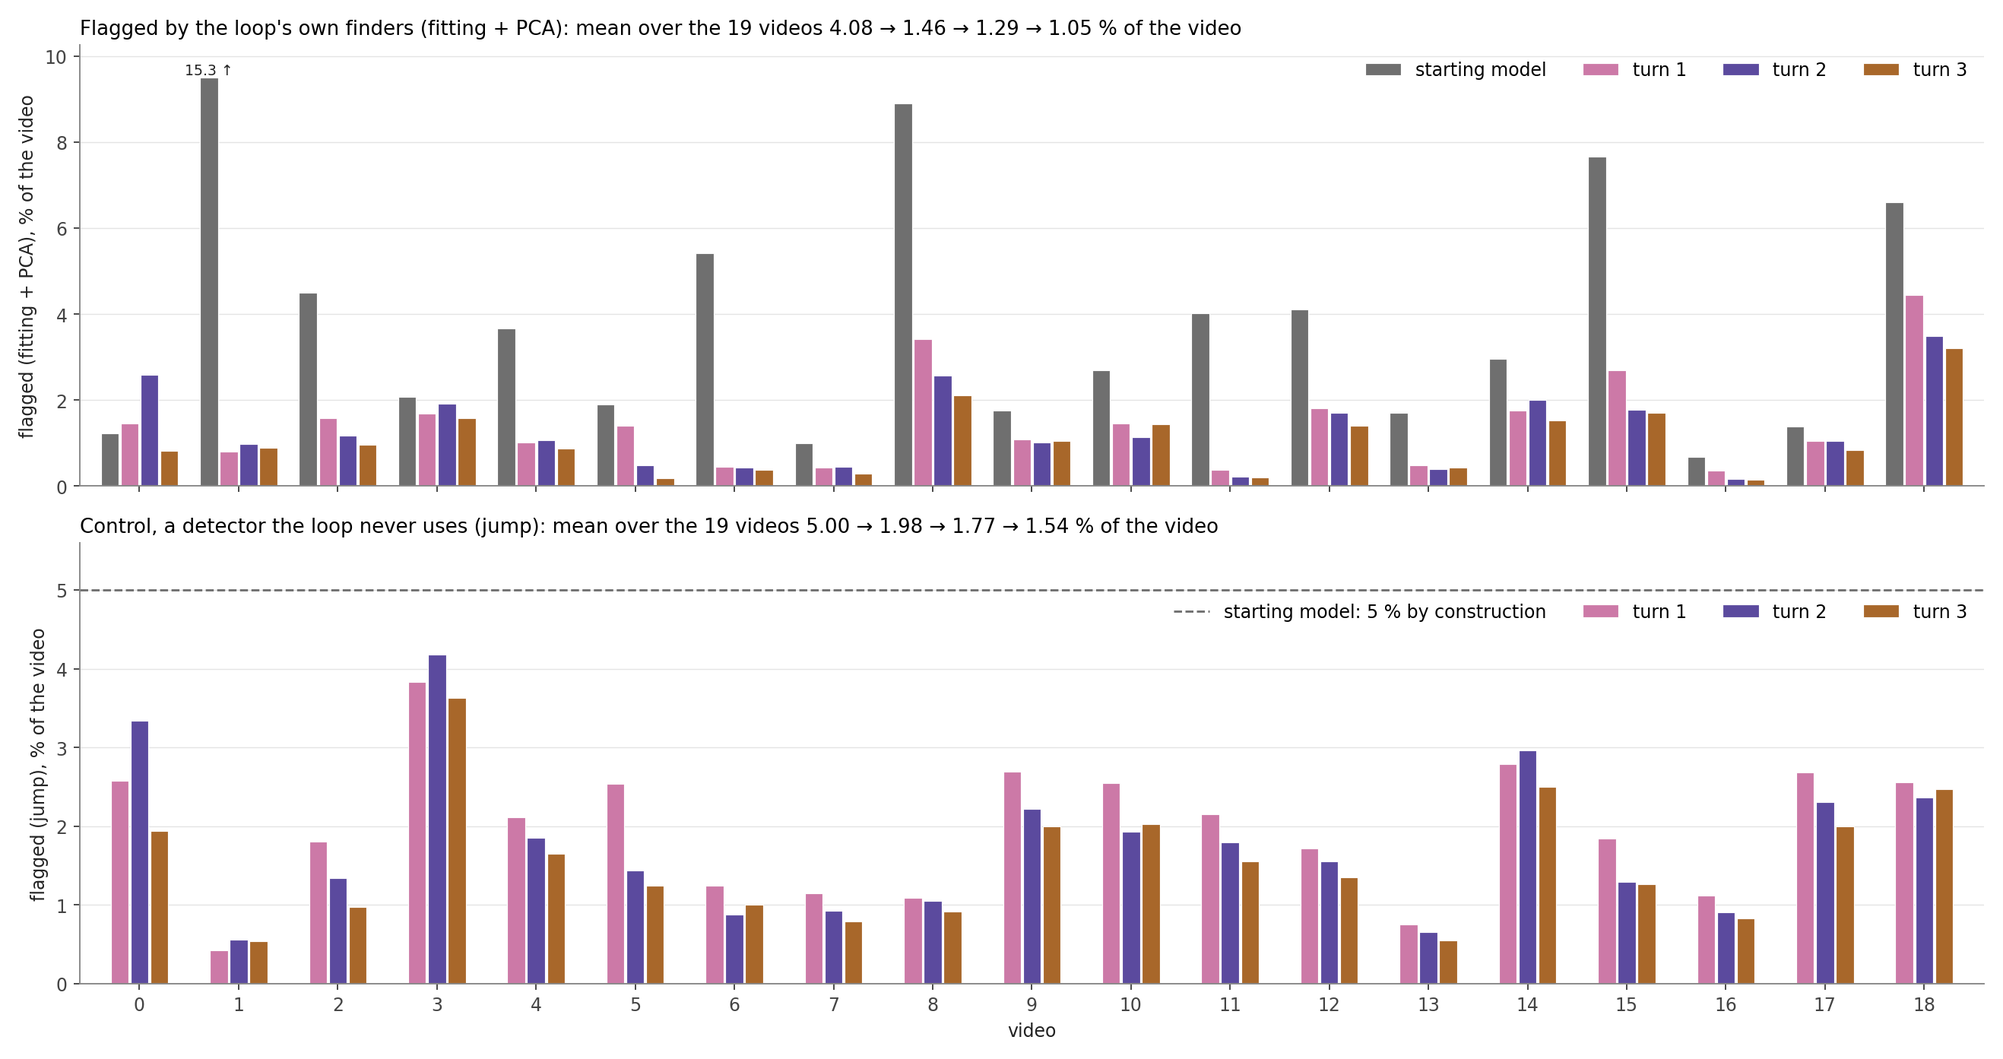
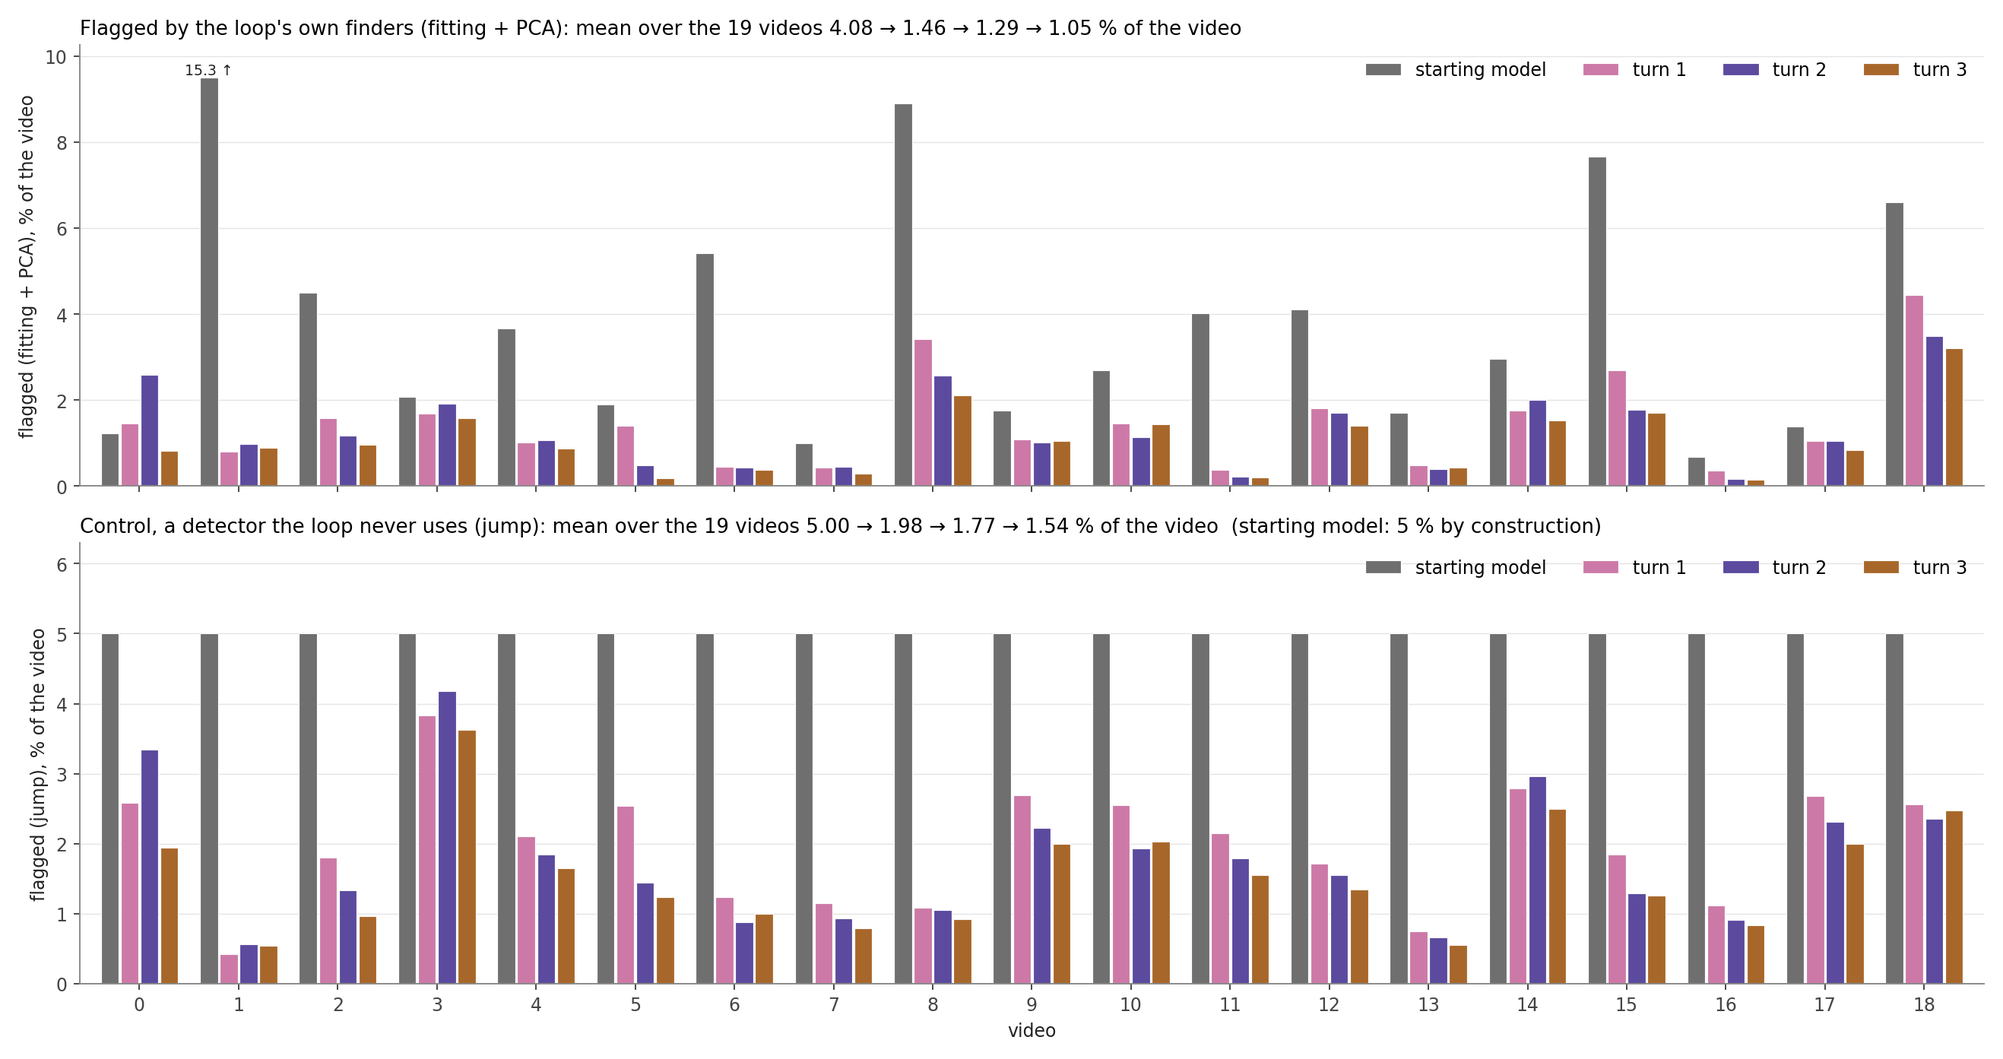
Figure 9-30: the starting model drawn as grey bars in the jump panel too (5 % by construction)

Changed region(s): [[0.0311, 0.4939, 0.9958, 0.9261], [0.6224, 0.4939, 0.6846, 0.5248]]

diff --git a/report/index.html b/report/index.html
@@ -81,7 +81,7 @@ math[display="block"]{margin:10px 0 6px;text-align:left;overflow-x:auto;max-widt
 
 <header>
   <h1><span lang="zh">小鼠眼睛关键点追踪：做了什么，结果是什么</span><span lang="en">Mouse eye keypoint tracking: what was done and what came out</span></h1>
-  <p class="muted small">Zhiheng Li (University of Minnesota), Kaiwen Sheng (Stanford) · <span lang="zh">页面生成时间</span><span lang="en">page built</span> 2026-11-28 12:45 · <a href="https://github.com/ZhihengLi0/mouse-behavior-tracking">GitHub: ZhihengLi0/mouse-behavior-tracking</a></p>
+  <p class="muted small">Zhiheng Li (University of Minnesota), Kaiwen Sheng (Stanford) · <span lang="zh">页面生成时间</span><span lang="en">page built</span> 2026-11-28 12:47 · <a href="https://github.com/ZhihengLi0/mouse-behavior-tracking">GitHub: ZhihengLi0/mouse-behavior-tracking</a></p>
 
   <div class="text" lang="zh">
     <p><b>任务：</b>用 DeepLabCut 在小鼠眼睛视频的每一帧上找 8 个点：瞳孔上、下、左、右，上眼睑、下眼睑，鼻侧眼角、颞侧眼角。由这 8 个点得到瞳孔大小、眼睛睁开程度和眨眼，之后与脑记录对齐。</p>
@@ -2169,27 +2169,27 @@ math[display="block"]{margin:10px 0 6px;text-align:left;overflow-x:auto;max-widt
     <tr><th><span lang="zh">脚本和结果</span><span lang="en">Scripts and results</span></th><td><code>scripts/final_check_set.py</code>, <code>blind_turn2_set.py</code>, <code>blind_turn2_score.py</code>, <code>final_loop_summary.py</code>, <code>final_loop_figures.py</code>; <code>results/self_training/final_loop_summary.csv</code>, <code>results/blind_test/videoNN/final/</code>, <code>turn3/</code></td></tr>
   </tbody></table></div>
   <figure>
-    <div class="figbox wide"><img src="assets/fig_loop_final_truth_frames.png?v=20261128c" alt="Final loop on all 19 videos: wrong truth frames and median truth error for the starting model and turns 1 to 3"></div>
+    <div class="figbox wide"><img src="assets/fig_loop_final_truth_frames.png?v=20261128d" alt="Final loop on all 19 videos: wrong truth frames and median truth error for the starting model and turns 1 to 3"></div>
     <figcaption lang="zh"><span class="tag">图 9-29：</span>5d，19 个视频的真值帧（每个视频固定的 70 帧）。灰 = 起点模型，粉 = 第一圈，紫 = 第二圈，棕 = 第三圈。上：真值帧里预测错的帧数；下：真值帧的误差中位数。</figcaption>
     <figcaption lang="en"><span class="tag">Figure 9-29:</span>5d, truth frames of the 19 videos (the same 70 frames of every video). Grey = starting model, pink = turn 1, purple = turn 2, brown = turn 3. Top: wrong truth frames; bottom: median error on the truth frames.</figcaption>
   </figure>
   <figure>
-    <div class="figbox wide"><img src="assets/fig_loop_final_flagged.png?v=20261128c" alt="Final loop on all 19 videos: flagged share of the whole video (fitting + PCA) for the starting model and turns 1 to 3"></div>
-    <figcaption lang="zh"><span class="tag">图 9-30：</span>5d，整段标出率，不用人工标注。颜色同图 9-29。上：loop 自己用的两种找帧信号的标出率（fitting + PCA），视频 1 起点模型的柱超出纵轴，数值写在柱上。下：对照，loop 不用的检测的标出率（跳变），虚线是起点模型（按定义 5%）。</figcaption>
-    <figcaption lang="en"><span class="tag">Figure 9-30:</span>5d, flagged share of the whole video, no hand labels involved. Colours as in Figure 9-29. Top: flagged share by the two finders the loop uses (fitting + PCA); the starting-model bar of video 1 exceeds the axis and carries its value. Bottom: the control, flagged share by a detector the loop never uses (jump); the dashed line is the starting model (5% by construction).</figcaption>
+    <div class="figbox wide"><img src="assets/fig_loop_final_flagged.png?v=20261128d" alt="Final loop on all 19 videos: flagged share of the whole video (fitting + PCA) for the starting model and turns 1 to 3"></div>
+    <figcaption lang="zh"><span class="tag">图 9-30：</span>5d，整段标出率，不用人工标注。颜色同图 9-29。上：loop 自己用的两种找帧信号的标出率（fitting + PCA），视频 1 起点模型的柱超出纵轴，数值写在柱上。下：对照，loop 不用的检测的标出率（跳变），起点模型按定义是 5%。</figcaption>
+    <figcaption lang="en"><span class="tag">Figure 9-30:</span>5d, flagged share of the whole video, no hand labels involved. Colours as in Figure 9-29. Top: flagged share by the two finders the loop uses (fitting + PCA); the starting-model bar of video 1 exceeds the axis and carries its value. Bottom: the control, flagged share by a detector the loop never uses (jump); the starting model is 5% by construction.</figcaption>
   </figure>
   <figure>
-    <div class="figbox wide"><img src="assets/fig_loop_final_check_turn1.png?v=20261128c" alt="Final loop, turn 1 against the starting model: wrong frames per video among the frames labeled to check turn 1"></div>
+    <div class="figbox wide"><img src="assets/fig_loop_final_check_turn1.png?v=20261128d" alt="Final loop, turn 1 against the starting model: wrong frames per video among the frames labeled to check turn 1"></div>
     <figcaption lang="zh"><span class="tag">图 9-31：</span>5d，检验第一圈：检验第一圈的帧里预测错的帧数，起点模型和第一圈。视频号下面是比较的帧数，带 * 的是有盲测帧的四个视频。</figcaption>
     <figcaption lang="en"><span class="tag">Figure 9-31:</span>5d, check of turn 1: wrong frames among the frames labeled to check turn 1, starting model and turn 1. Below each video number: frames compared; * marks the four videos with blind frames.</figcaption>
   </figure>
   <figure>
-    <div class="figbox wide"><img src="assets/fig_loop_final_check_turn2.png?v=20261128c" alt="Final loop, turn 2 against turn 1: wrong frames per video among the frames labeled to check turn 2"></div>
+    <div class="figbox wide"><img src="assets/fig_loop_final_check_turn2.png?v=20261128d" alt="Final loop, turn 2 against turn 1: wrong frames per video among the frames labeled to check turn 2"></div>
     <figcaption lang="zh"><span class="tag">图 9-32：</span>5d，检验第二圈：检验第二圈的帧里预测错的帧数，第一圈和第二圈。</figcaption>
     <figcaption lang="en"><span class="tag">Figure 9-32:</span>5d, check of turn 2: wrong frames among the frames labeled to check turn 2, turn 1 and turn 2.</figcaption>
   </figure>
   <figure>
-    <div class="figbox wide"><img src="assets/fig_loop_final_check_turn3.png?v=20261128c" alt="Final loop, turn 3 against turn 2: wrong frames per video among the frames labeled to check turn 3, three videos labeled so far"></div>
+    <div class="figbox wide"><img src="assets/fig_loop_final_check_turn3.png?v=20261128d" alt="Final loop, turn 3 against turn 2: wrong frames per video among the frames labeled to check turn 3, three videos labeled so far"></div>
     <figcaption lang="zh"><span class="tag">图 9-33：</span>5d，检验第三圈：检验第三圈的帧里预测错的帧数，第二圈和第三圈。只有已标的视频 0、1、2 有柱；其余 16 个视频还没标。</figcaption>
     <figcaption lang="en"><span class="tag">Figure 9-33:</span>5d, check of turn 3: wrong frames among the frames labeled to check turn 3, turn 2 and turn 3. Only videos 0, 1 and 2, labeled so far, have bars; the other 16 videos are not labeled yet.</figcaption>
   </figure>

diff --git a/report/template.html b/report/template.html
@@ -2061,27 +2061,27 @@ math[display="block"]{margin:10px 0 6px;text-align:left;overflow-x:auto;max-widt
     <tr><th><span lang="zh">脚本和结果</span><span lang="en">Scripts and results</span></th><td><code>scripts/final_check_set.py</code>, <code>blind_turn2_set.py</code>, <code>blind_turn2_score.py</code>, <code>final_loop_summary.py</code>, <code>final_loop_figures.py</code>; <code>results/self_training/final_loop_summary.csv</code>, <code>results/blind_test/videoNN/final/</code>, <code>turn3/</code></td></tr>
   </tbody></table></div>
   <figure>
-    <div class="figbox wide"><img src="assets/fig_loop_final_truth_frames.png?v=20261128c" alt="Final loop on all 19 videos: wrong truth frames and median truth error for the starting model and turns 1 to 3"></div>
+    <div class="figbox wide"><img src="assets/fig_loop_final_truth_frames.png?v=20261128d" alt="Final loop on all 19 videos: wrong truth frames and median truth error for the starting model and turns 1 to 3"></div>
     <figcaption lang="zh"><span class="tag">图 9-29：</span>5d，19 个视频的真值帧（每个视频固定的 70 帧）。灰 = 起点模型，粉 = 第一圈，紫 = 第二圈，棕 = 第三圈。上：真值帧里预测错的帧数；下：真值帧的误差中位数。</figcaption>
     <figcaption lang="en"><span class="tag">Figure 9-29:</span>5d, truth frames of the 19 videos (the same 70 frames of every video). Grey = starting model, pink = turn 1, purple = turn 2, brown = turn 3. Top: wrong truth frames; bottom: median error on the truth frames.</figcaption>
   </figure>
   <figure>
-    <div class="figbox wide"><img src="assets/fig_loop_final_flagged.png?v=20261128c" alt="Final loop on all 19 videos: flagged share of the whole video (fitting + PCA) for the starting model and turns 1 to 3"></div>
-    <figcaption lang="zh"><span class="tag">图 9-30：</span>5d，整段标出率，不用人工标注。颜色同图 9-29。上：loop 自己用的两种找帧信号的标出率（fitting + PCA），视频 1 起点模型的柱超出纵轴，数值写在柱上。下：对照，loop 不用的检测的标出率（跳变），虚线是起点模型（按定义 5%）。</figcaption>
-    <figcaption lang="en"><span class="tag">Figure 9-30:</span>5d, flagged share of the whole video, no hand labels involved. Colours as in Figure 9-29. Top: flagged share by the two finders the loop uses (fitting + PCA); the starting-model bar of video 1 exceeds the axis and carries its value. Bottom: the control, flagged share by a detector the loop never uses (jump); the dashed line is the starting model (5% by construction).</figcaption>
+    <div class="figbox wide"><img src="assets/fig_loop_final_flagged.png?v=20261128d" alt="Final loop on all 19 videos: flagged share of the whole video (fitting + PCA) for the starting model and turns 1 to 3"></div>
+    <figcaption lang="zh"><span class="tag">图 9-30：</span>5d，整段标出率，不用人工标注。颜色同图 9-29。上：loop 自己用的两种找帧信号的标出率（fitting + PCA），视频 1 起点模型的柱超出纵轴，数值写在柱上。下：对照，loop 不用的检测的标出率（跳变），起点模型按定义是 5%。</figcaption>
+    <figcaption lang="en"><span class="tag">Figure 9-30:</span>5d, flagged share of the whole video, no hand labels involved. Colours as in Figure 9-29. Top: flagged share by the two finders the loop uses (fitting + PCA); the starting-model bar of video 1 exceeds the axis and carries its value. Bottom: the control, flagged share by a detector the loop never uses (jump); the starting model is 5% by construction.</figcaption>
   </figure>
   <figure>
-    <div class="figbox wide"><img src="assets/fig_loop_final_check_turn1.png?v=20261128c" alt="Final loop, turn 1 against the starting model: wrong frames per video among the frames labeled to check turn 1"></div>
+    <div class="figbox wide"><img src="assets/fig_loop_final_check_turn1.png?v=20261128d" alt="Final loop, turn 1 against the starting model: wrong frames per video among the frames labeled to check turn 1"></div>
     <figcaption lang="zh"><span class="tag">图 9-31：</span>5d，检验第一圈：检验第一圈的帧里预测错的帧数，起点模型和第一圈。视频号下面是比较的帧数，带 * 的是有盲测帧的四个视频。</figcaption>
     <figcaption lang="en"><span class="tag">Figure 9-31:</span>5d, check of turn 1: wrong frames among the frames labeled to check turn 1, starting model and turn 1. Below each video number: frames compared; * marks the four videos with blind frames.</figcaption>
   </figure>
   <figure>
-    <div class="figbox wide"><img src="assets/fig_loop_final_check_turn2.png?v=20261128c" alt="Final loop, turn 2 against turn 1: wrong frames per video among the frames labeled to check turn 2"></div>
+    <div class="figbox wide"><img src="assets/fig_loop_final_check_turn2.png?v=20261128d" alt="Final loop, turn 2 against turn 1: wrong frames per video among the frames labeled to check turn 2"></div>
     <figcaption lang="zh"><span class="tag">图 9-32：</span>5d，检验第二圈：检验第二圈的帧里预测错的帧数，第一圈和第二圈。</figcaption>
     <figcaption lang="en"><span class="tag">Figure 9-32:</span>5d, check of turn 2: wrong frames among the frames labeled to check turn 2, turn 1 and turn 2.</figcaption>
   </figure>
   <figure>
-    <div class="figbox wide"><img src="assets/fig_loop_final_check_turn3.png?v=20261128c" alt="Final loop, turn 3 against turn 2: wrong frames per video among the frames labeled to check turn 3, three videos labeled so far"></div>
+    <div class="figbox wide"><img src="assets/fig_loop_final_check_turn3.png?v=20261128d" alt="Final loop, turn 3 against turn 2: wrong frames per video among the frames labeled to check turn 3, three videos labeled so far"></div>
     <figcaption lang="zh"><span class="tag">图 9-33：</span>5d，检验第三圈：检验第三圈的帧里预测错的帧数，第二圈和第三圈。只有已标的视频 0、1、2 有柱；其余 16 个视频还没标。</figcaption>
     <figcaption lang="en"><span class="tag">Figure 9-33:</span>5d, check of turn 3: wrong frames among the frames labeled to check turn 3, turn 2 and turn 3. Only videos 0, 1 and 2, labeled so far, have bars; the other 16 videos are not labeled yet.</figcaption>
   </figure>

diff --git a/report/index_en.html b/report/index_en.html
@@ -78,7 +78,7 @@ math[display="block"]{margin:10px 0 6px;text-align:left;overflow-x:auto;max-widt
 
 <header>
   <h1><span lang="en">Mouse eye keypoint tracking: what was done and what came out</span></h1>
-  <p class="muted small">Zhiheng Li (University of Minnesota), Kaiwen Sheng (Stanford) · <span lang="en">page built</span> 2026-11-28 12:45 · <a href="https://github.com/ZhihengLi0/mouse-behavior-tracking">GitHub: ZhihengLi0/mouse-behavior-tracking</a></p>
+  <p class="muted small">Zhiheng Li (University of Minnesota), Kaiwen Sheng (Stanford) · <span lang="en">page built</span> 2026-11-28 12:47 · <a href="https://github.com/ZhihengLi0/mouse-behavior-tracking">GitHub: ZhihengLi0/mouse-behavior-tracking</a></p>
 
   
   <div class="text" lang="en">
@@ -1684,27 +1684,27 @@ math[display="block"]{margin:10px 0 6px;text-align:left;overflow-x:auto;max-widt
     <tr><th><span lang="en">Scripts and results</span></th><td><code>scripts/final_check_set.py</code>, <code>blind_turn2_set.py</code>, <code>blind_turn2_score.py</code>, <code>final_loop_summary.py</code>, <code>final_loop_figures.py</code>; <code>results/self_training/final_loop_summary.csv</code>, <code>results/blind_test/videoNN/final/</code>, <code>turn3/</code></td></tr>
   </tbody></table></div>
   <figure>
-    <div class="figbox wide"><img src="assets/fig_loop_final_truth_frames.png?v=20261128c" alt="Final loop on all 19 videos: wrong truth frames and median truth error for the starting model and turns 1 to 3"></div>
+    <div class="figbox wide"><img src="assets/fig_loop_final_truth_frames.png?v=20261128d" alt="Final loop on all 19 videos: wrong truth frames and median truth error for the starting model and turns 1 to 3"></div>
     
     <figcaption lang="en"><span class="tag">Figure 9-29:</span>5d, truth frames of the 19 videos (the same 70 frames of every video). Grey = starting model, pink = turn 1, purple = turn 2, brown = turn 3. Top: wrong truth frames; bottom: median error on the truth frames.</figcaption>
   </figure>
   <figure>
-    <div class="figbox wide"><img src="assets/fig_loop_final_flagged.png?v=20261128c" alt="Final loop on all 19 videos: flagged share of the whole video (fitting + PCA) for the starting model and turns 1 to 3"></div>
+    <div class="figbox wide"><img src="assets/fig_loop_final_flagged.png?v=20261128d" alt="Final loop on all 19 videos: flagged share of the whole video (fitting + PCA) for the starting model and turns 1 to 3"></div>
     
-    <figcaption lang="en"><span class="tag">Figure 9-30:</span>5d, flagged share of the whole video, no hand labels involved. Colours as in Figure 9-29. Top: flagged share by the two finders the loop uses (fitting + PCA); the starting-model bar of video 1 exceeds the axis and carries its value. Bottom: the control, flagged share by a detector the loop never uses (jump); the dashed line is the starting model (5% by construction).</figcaption>
+    <figcaption lang="en"><span class="tag">Figure 9-30:</span>5d, flagged share of the whole video, no hand labels involved. Colours as in Figure 9-29. Top: flagged share by the two finders the loop uses (fitting + PCA); the starting-model bar of video 1 exceeds the axis and carries its value. Bottom: the control, flagged share by a detector the loop never uses (jump); the starting model is 5% by construction.</figcaption>
   </figure>
   <figure>
-    <div class="figbox wide"><img src="assets/fig_loop_final_check_turn1.png?v=20261128c" alt="Final loop, turn 1 against the starting model: wrong frames per video among the frames labeled to check turn 1"></div>
+    <div class="figbox wide"><img src="assets/fig_loop_final_check_turn1.png?v=20261128d" alt="Final loop, turn 1 against the starting model: wrong frames per video among the frames labeled to check turn 1"></div>
     
     <figcaption lang="en"><span class="tag">Figure 9-31:</span>5d, check of turn 1: wrong frames among the frames labeled to check turn 1, starting model and turn 1. Below each video number: frames compared; * marks the four videos with blind frames.</figcaption>
   </figure>
   <figure>
-    <div class="figbox wide"><img src="assets/fig_loop_final_check_turn2.png?v=20261128c" alt="Final loop, turn 2 against turn 1: wrong frames per video among the frames labeled to check turn 2"></div>
+    <div class="figbox wide"><img src="assets/fig_loop_final_check_turn2.png?v=20261128d" alt="Final loop, turn 2 against turn 1: wrong frames per video among the frames labeled to check turn 2"></div>
     
     <figcaption lang="en"><span class="tag">Figure 9-32:</span>5d, check of turn 2: wrong frames among the frames labeled to check turn 2, turn 1 and turn 2.</figcaption>
   </figure>
   <figure>
-    <div class="figbox wide"><img src="assets/fig_loop_final_check_turn3.png?v=20261128c" alt="Final loop, turn 3 against turn 2: wrong frames per video among the frames labeled to check turn 3, three videos labeled so far"></div>
+    <div class="figbox wide"><img src="assets/fig_loop_final_check_turn3.png?v=20261128d" alt="Final loop, turn 3 against turn 2: wrong frames per video among the frames labeled to check turn 3, three videos labeled so far"></div>
     
     <figcaption lang="en"><span class="tag">Figure 9-33:</span>5d, check of turn 3: wrong frames among the frames labeled to check turn 3, turn 2 and turn 3. Only videos 0, 1 and 2, labeled so far, have bars; the other 16 videos are not labeled yet.</figcaption>
   </figure>

diff --git a/v2_new_pupil_top_video_scaling/scripts/final_loop_figures.py b/v2_new_pupil_top_video_scaling/scripts/final_loop_figures.py
@@ -101,13 +101,14 @@ def fig_flagged(T):
     turns = [m for m in MODELS if m != "teacher"]
     start = T[T.model == "teacher"].jump.dropna()
     assert (start == 5.0).all(), "the starting model flags 5 % by construction"
-    grouped(ax, T, "jump", "flagged (jump), % of the video", models=turns)
-    ax.axhline(5.0, color=MODELS["teacher"][1], linestyle="--", linewidth=1.2, label="starting model: 5 % by construction")
-    ax.set_ylim(0, 5.6)
+    J = T.copy()                                 # the threshold is the starting model's own 95 % quantile, so its share is 5 %
+    J.loc[J.model == "teacher", "jump"] = 5.0    # on every video (older eval.csv files of the starting model do not store it)
+    grouped(ax, J, "jump", "flagged (jump), % of the video")
+    ax.set_ylim(0, 6.3)
     mj = T.groupby("model").jump.mean()
     ax.set_title("Control, a detector the loop never uses (jump): mean over the 19 videos 5.00 → "
-                 + " → ".join(f"{mj[m]:.2f}" for m in turns) + " % of the video", fontsize=11, loc="left")
-    ax.legend(ncol=4, frameon=False, loc="upper right", bbox_to_anchor=(1.0, 0.9))
+                 + " → ".join(f"{mj[m]:.2f}" for m in turns) + " % of the video  (starting model: 5 % by construction)", fontsize=11, loc="left")
+    ax.legend(ncol=4, frameon=False, loc="upper right")
     ax.set_xlabel("video")
     fig.tight_layout()
     fig.savefig(OUT / "loop_final_flagged.png", dpi=170)
